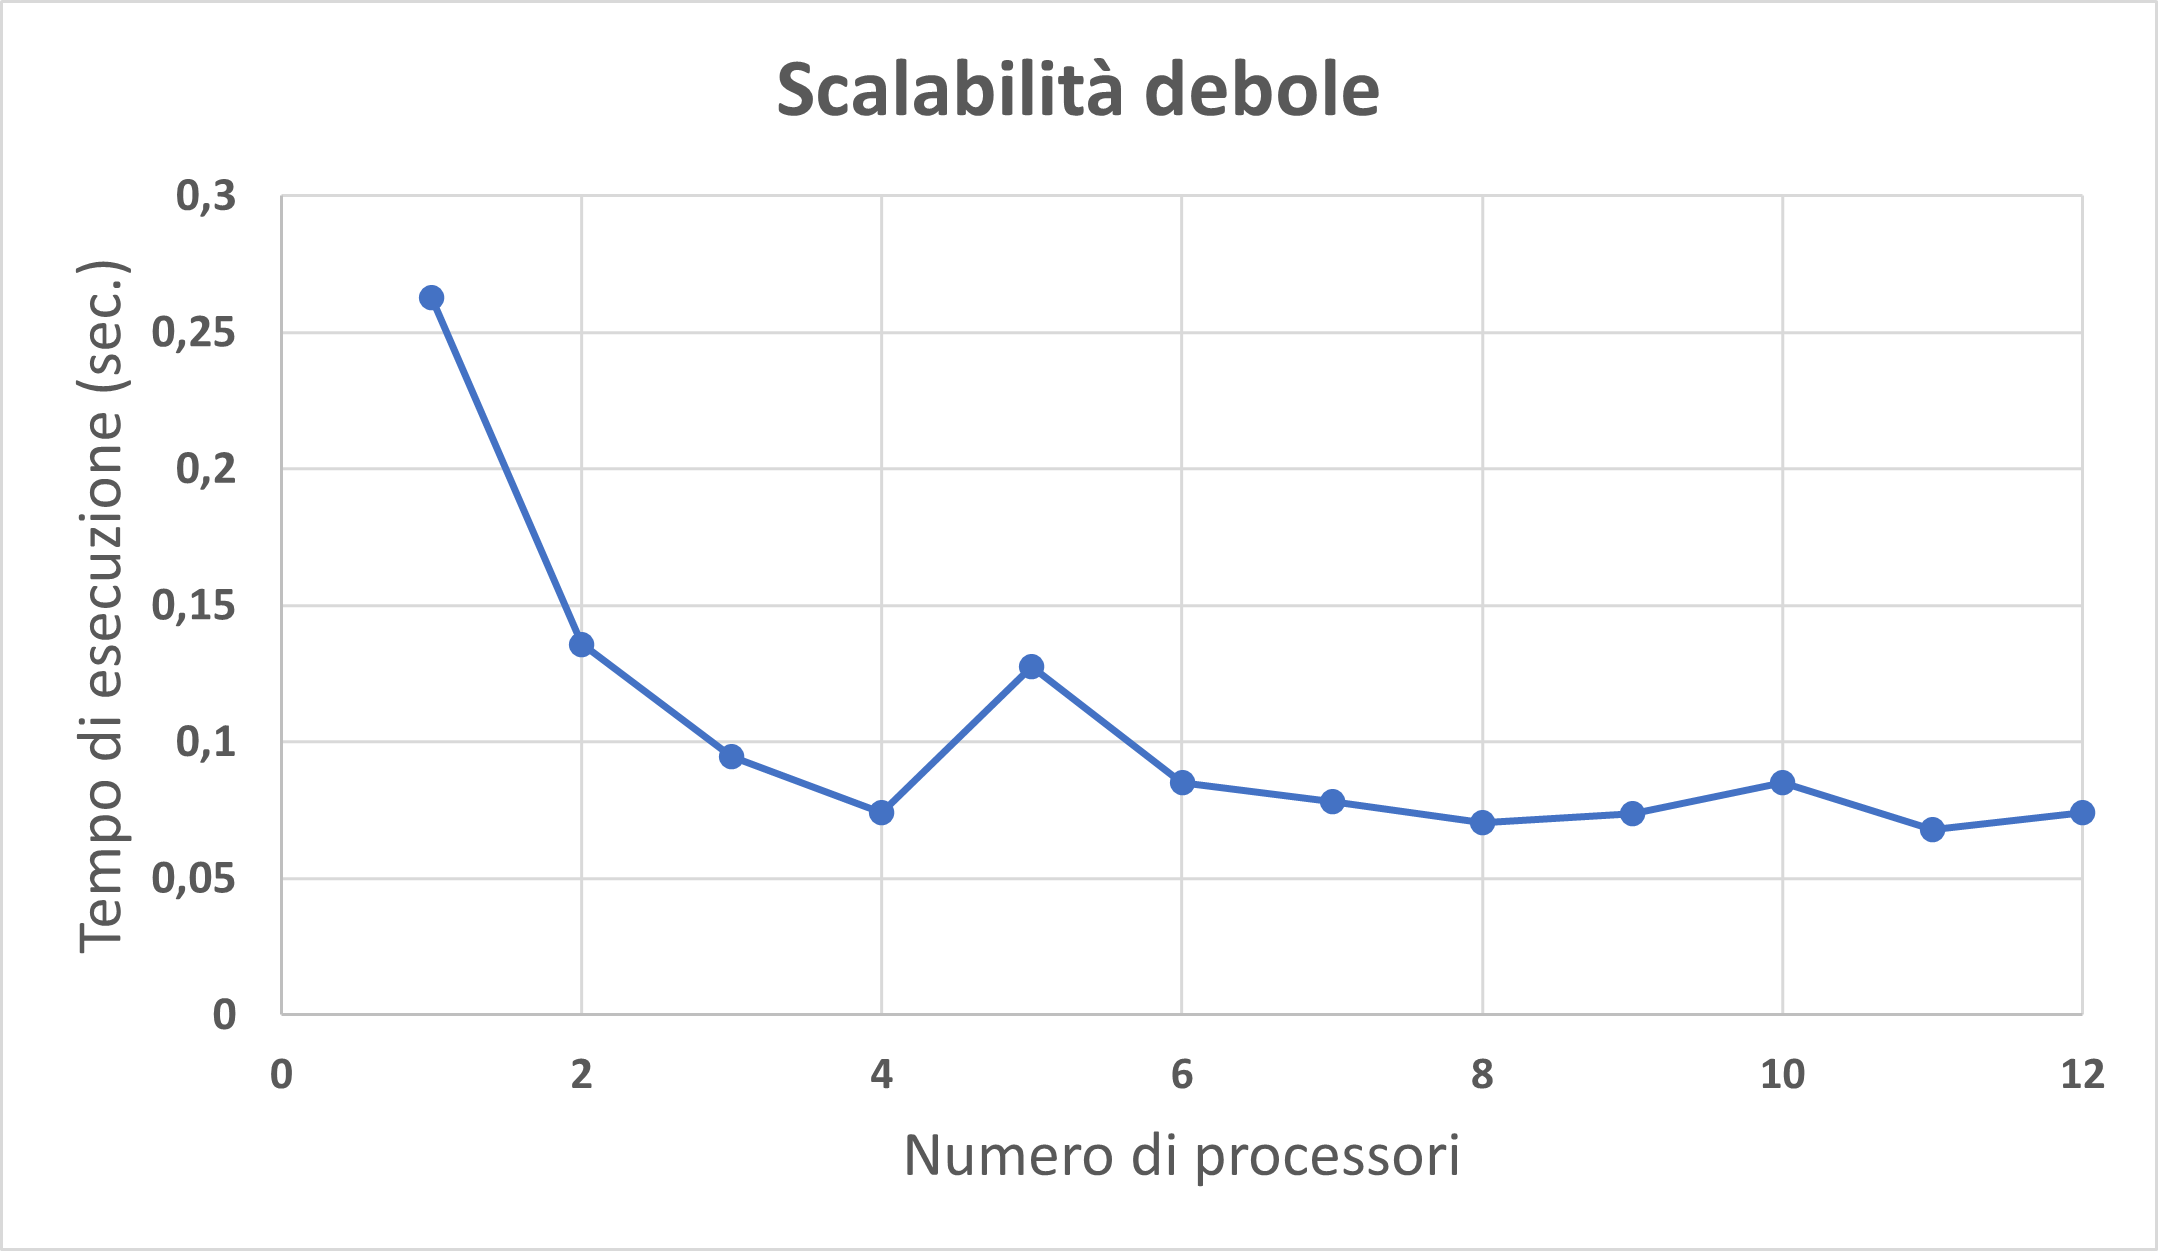
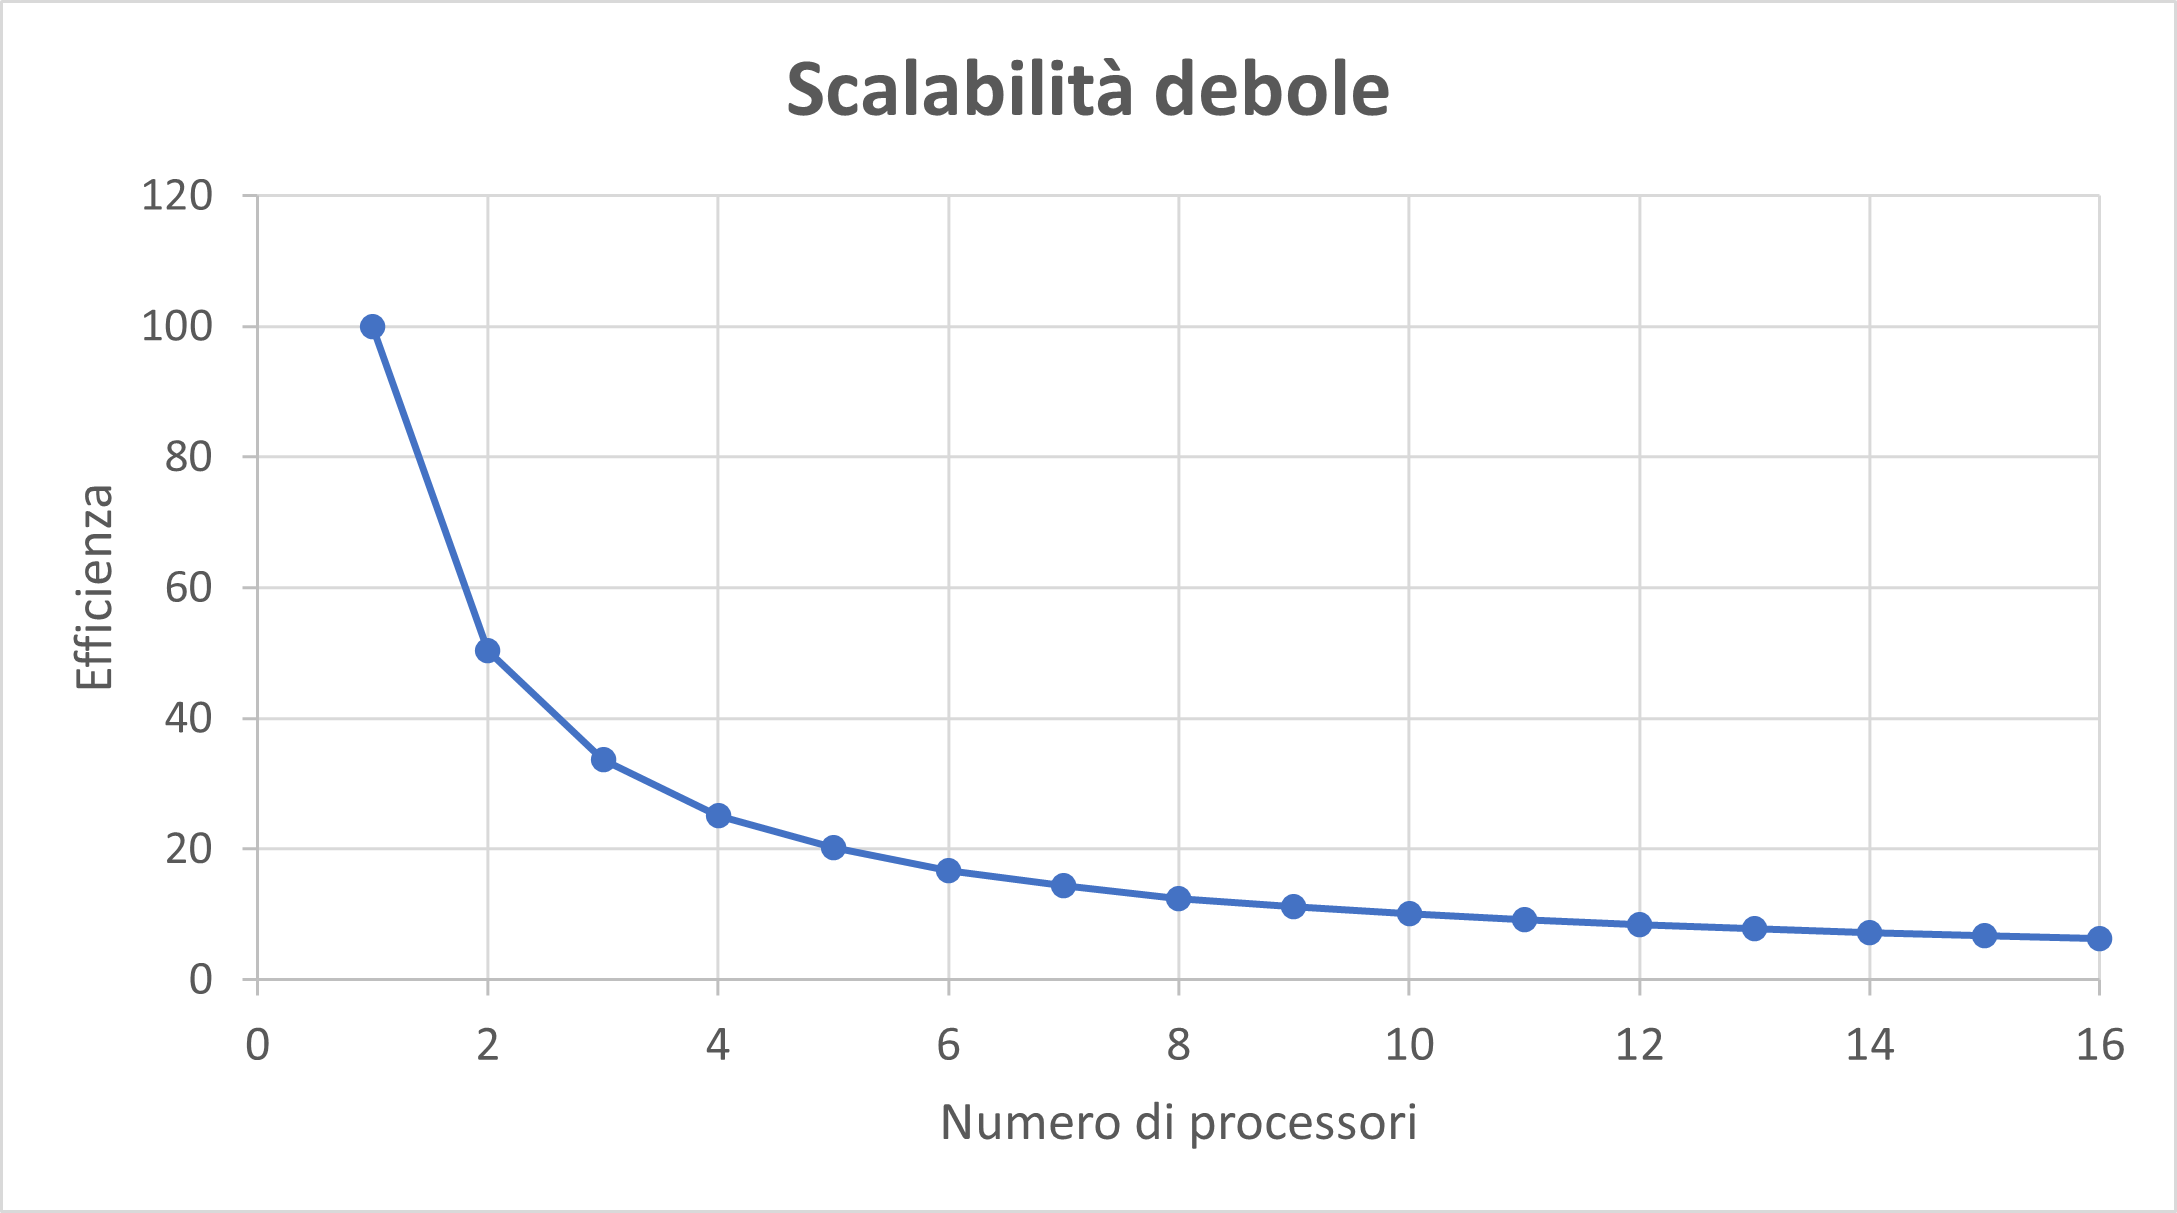
aggiunta della descrizione della scalabilità forte e debole e delle conclusioni

diff --git a/README.md b/README.md
@@ -1,20 +1,29 @@
 # Forest-fire-simulation
+## Indice
+1. [Introduzione](#introduzione)
+
+2. [Descrizione della soluzione proposta](#descrizione-della-soluzione-proposta)
+3. [Dettagli dell'implementazione](#dettagli-dellimplementazione)
+4. [Correttezza dell'algoritmo](#correttezza-dellalgoritmo)
+5. [Benchmarks](#benchmarks)
+6. [Conclusioni](#conclusioni)
+
 ## Introduzione
 Questo progetto è una possibile implementazione dell'algoritmo Forrest fire in C che utilizza Open MPI, una implementazione di MPI. Tale problema è ben descritto qui: https://en.wikipedia.org/wiki/Forest-fire_model. In breve, questa implementazione parallelizza la simulazione di un incendio boschivo, con i seguenti requisiti:
 
-1. Una cella bruciata si traforma in una cella vuota
-2. Un albero brucia se almeno uno dei suoi vicini sta bruciando
-3. Un albero si incendia con probabilità $b$ anche se nessun vicino sta bruciando
-4. In una cella vuota può nascere un albero con probabilità $p$
+1. Una cella bruciata si traforma in una cella vuota.
+2. Un albero brucia se almeno uno dei suoi vicini sta bruciando.
+3. Un albero si incendia con probabilità $b$ anche se nessun vicino sta bruciando.
+4. In una cella vuota può nascere un albero con probabilità $p$.
 
 La simulazione può terminare o quando tutta la foresta è vuota, oppure quando si raggiunge un numero di iterazioni S dell'algoritmo (dato in input dall'utente al programma).
 ## Descrizione della soluzione proposta
-La soluzione proposta prevede che l'utente dia in input la dimensione della matrice ($N$ ed $M$) e il numero di step dell'algoritmo ($S$). Il processo master ($rank 0$), inizializza la matrice riempiendo casualmente una cella con una dei seguenti valori:
-- $T$: nella cella c'è un albero
-- $E$: la cella è vuota
-- $B$: l'albero sta bruciando
+La soluzione proposta prevede che l'utente dia in input la dimensione della matrice ($N$ ed $M$) e il numero di step dell'algoritmo ($S$). Il processo master ($rank$ $0$), inizializza la matrice riempiendo casualmente una cella con una dei seguenti valori:
+- $T$: nella cella c'è un albero.
+- $E$: la cella è vuota.
+- $B$: l'albero sta bruciando.
 
-Il master node poi procede a dividere in modo equo le righe della matrice fra i processi disponibili ed ogni processo lavorerà su una porzione della matrice. Ogni processo poi comunica con i processi vicini  le righe estreme della sottomatrice ricevuta, in modo da verificare se l'albero dovrà bruciare oppure no. Se la sottomatrice ricevuta da un processo è almeno 3 righe, allora il processo potrà procedere a computare una parte della simulazione senza fare comunicazione (tranne quando andrà a considerare i bordi), questo meccanismo permette di velocizzare la simulazione, come vedremo al punto (inserire riferimento). Ogni processo poi terrà conto ad ogni iterazione delle celle vuote e le comunicherà al master node, che farà terminare la simulazione quando: il numero di celle vuote è pari al numero di celle totali della matrice oppure la simulazione terminerà al raggiungimento di $S$.
+Il master node poi procede a dividere in modo equo le righe della matrice fra i processi disponibili ed ogni processo lavorerà su una porzione della matrice. Ogni processo poi comunica con i processi vicini le righe agli estremi della sottomatrice ricevuta, in modo da verificare se l'albero dovrà bruciare oppure no. Se la sottomatrice ricevuta da un processo è almeno 3 righe, allora il processo potrà procedere a computare una parte della simulazione senza fare comunicazione (tranne quando andrà a considerare i bordi), questo meccanismo permette di velocizzare la simulazione. Ogni processo poi terrà conto ad ogni iterazione delle celle vuote e le comunicherà al master node, che farà terminare la simulazione quando il numero di celle vuote è pari al numero di celle totali della matrice. Altrimenti la simulazione termina al raggiungimento di $S$.
 
 ## Dettagli dell'implementazione
 In questa sezione saranno dettaglite le parti più significative del codice dell'implementazione.
@@ -35,28 +44,7 @@ void forest_initialization(char *forest,int num_row,int num_col){
 }
 ```
 Il seme utilizzato da rand è il tempo, allo scorrimento di ogni cella viene generato un numero compreso fra 0 e 100 e se il numero è maggiore di 70 viene inserito un albero, se è minore o uguale a 50 sarà una cella vuota altrimenti sarà un albero che sta bruciando.
-### Suddivisione delle righe
-```C
-//m: numero di righe
-//n: numero di colonne 
-//numtasks: numero di processi
 
-//Controllo se c'è resto
-    sum = 0;
-    remainder = m % numtasks;
-
-    for(int i = 0; i<numtasks; i++){
-        send_counts[i] = m / numtasks; //numero di righe che dovrà avere ogni processo
-        if(remainder > 0){
-            send_counts[i]++;  //distribuisco in maniera equa le righe se c'è resto
-            remainder--;
-        }
-        send_counts[i] *= n; //ottenuto il numero di righe, moltiplico per il numero di colonne, ottentedo la quantità di elementi che in totale avrà ogni processo
-        displ[i] = sum; //spiazzamento per scatterv
-        sum += send_counts[i];
-    }
-```
-Avendo utilizzato la scatterv per la suddivisione delle righe fra i processi, abbiamo bisogno del displacement (```displ```) e della grandezza del buffer di ricezione di ogni singolo processo (```send_counts```) che può variare in base la numero di righe che riceverà.
 ### Comunicazione asincrona dei bordi delle sottomatrici
 ```C
         if(myrank == 0){ 
@@ -139,7 +127,7 @@ void check_neighbors(char *forest,char *matrix2,int num_row,int num_col,int i,in
 ```
 Questa funzione, per la cella che stiamo considerando, va a verificare lo stato dei vicini a destra, sinistra, sopra e sotto. Se uno di questi sta bruciando, allora la cella diventerà $B$. Altrimenti se nessuno sta bruciando con probabilità ```prob_burn```, l'albero brucerà.
 ### Controllo delle righe ai bordi
-Per la computazione delle righe ai bordi vi è bisogno delle righe degli altri processi, quindi viene utilizzatta una ```MPI_Waitall```, dopodichè si può procedere a controllare la prima e l'ultima riga della sottomatrice di ogni processo. Questo viene fatto utilizzando la funzione ```check_borders``` che prende in input le righe superiore e inferiore ricevute e va ad eseguire i controlli.
+Per la computazione delle righe ai bordi vi è bisogno delle righe degli altri processi, quindi vengono utilizzate due ```MPI_Wait```, rispettivamente su ```request[0]``` e ```request[1]```, dopodichè si può procedere a controllare la prima e l'ultima riga della sottomatrice di ogni processo. Questo viene fatto utilizzando la funzione ```check_borders``` che prende in input le righe superiore e inferiore ricevute e va ad eseguire i controlli.
 ```C
 void check_borders(char *forest, char *matrix2,char *top_row,char *bottom_row,int i,int j, int num_row, int num_col,int prob_burn){
     //controllo a destra e a sinistra
@@ -180,7 +168,7 @@ void check_borders(char *forest, char *matrix2,char *top_row,char *bottom_row,in
     }
 }
 ```
-La funzione è simile a quella precedente, ed inoltre bisogna considerare anche il caso in cui il processo abbia ricevuto una sola riga, poichè in tal caso, quando leggiamo la riga 0, dobbiamo confrontare i valori nelle cella sia con la riga superiore ricevuta che con quella inferiore e non con la riga inferiore della matrice che abbiamo (in quel caso avremmo un errore perchè abbiamo una sola riga).
+La funzione è simile a quella precedente, ed inoltre bisogna considerare anche il caso in cui il processo abbia ricevuto una sola riga, poichè in tal caso, quando leggiamo la riga 0, dobbiamo confrontare i valori nelle cella sia con la riga superiore ricevuta che con quella inferiore.
 ### Terminazione della simulazione del caso la foresta sia vuota
 Per terminare la simulazione nel caso la foresta sia vuota, ogni processo incrementa un contatore di celle vuote, che azzera poi ad ogni nuova iterazione.
 ```C
@@ -215,14 +203,14 @@ Esempio per controllare la correttezza su una matrice di dimensione 50x50 con 50
  cd test_correttezza/
  ./check_correctness.sh --row 50 --column 50 --steps 40 --processors 4
  #oppure
- ./check_correctness.sh -r 50 -c 50 -s 40 -p 2
+ ./check_correctness.sh -r 50 -c 50 -s 40 -p 4
 
 ```
-L'output dell'esecuzione dei programmi viene riportato nei file ```output_sequenziale``` e ```output_parallelo```. Se i due file contengono lo stesso output, cioè significa che nelle s iterazioni, lo stato della foresta era sempre uguale, fra programma eseguito con p processori e fra il programma sequenziale. Ciò ci assicura la corretteza del programma parallelo.
+L'output dell'esecuzione dei programmi viene riportato nei file ```output_sequenziale``` e ```output_parallelo```. Se i due file contengono lo stesso output, cioè significa che nelle $S$ iterazioni, lo stato della foresta era sempre uguale, fra programma eseguito con $p$ processori e fra il programma sequenziale. Ciò ci assicura la corretteza del programma parallelo.
 
 ## Benchmarks
 Prima di andare nel dettaglio nel mostrare i dati del benchmark effettuato è opportuno fare le seguenti premesse.
-I benchmark sono stati eseguiti su un cluster di macchine virtuali create su Google Cloud. In particolare, il cluster è stato creato con 6 macchine di tipo e2-standard-4. Questo tipo di macchine hanno si 4vCPU, ma in realtà al sistema operativo solo 2vCPU vengono esposte. Di conseguenza nel test, per avere dati più realistici e sfruttare solamente i core reali disponibili della macchina, il test è stato eseguito con procesessori che variano da 1 fino a 12. Inolte, non è stato possibile andare ad usare macchine e2-standard-8 (con 8vCPU e quindi 4vCPU esposte al SO) per fare un testo con oltre 12 processori, in quanto Google Cloud pone un limite di massimo 24 core per regione (e il conteggio dei core viene fatto sulle vCPU presenti nella descrizione della macchina e non in quelle realmente utilizzabili). Dunque, per avere dei test più veritieri possibili ci si è fermati a 12 processori nel test di scalabilità. Tutti i tempi di esecuzione che saranno mostrati nel seguito, sono la media dei tempi su 10 esecuzioni consecutive della simulazione.
+I benchmark sono stati eseguiti su un cluster di macchine virtuali create su Google Cloud. In particolare, il cluster è stato creato con 4 macchine di tipo e2-standard-8. Questo tipo di macchine hanno si 8vCPU, ma in realtà al sistema operativo solo 4vCPU vengono esposte. Di conseguenza nel test, per avere dati più realistici e sfruttare solamente i core reali disponibili della macchina, il test è stato eseguito con procesessori che variano da 1 fino a 16 (senza usare oversubscribe). Tutti i tempi di esecuzione che saranno mostrati nel seguito, sono la media dei tempi su 10 esecuzioni consecutive della simulazione.
 ### Scalabilità forte
 Nel test della scalabilità forte, vengono riportati i tempi dell'esecuzione della simulazione su una matrice di dimensione $3000*3000$, eseguendo $100$ $step$ e con le seguenti probabilità:
 
@@ -231,9 +219,9 @@ Nel test della scalabilità forte, vengono riportati i tempi dell'esecuzione del
     int prob_grow = 50;  //probabilità che un albero cresca nella cella vuota
 ```
 
-![Scalabilità forte](img/Strong_scalability.png?raw=true)
+![Scalabilità forte](img/strong_scalability.png?raw=true)
 
-Nella tabella di seguito vengono riportati nel dettaglio i dati con anche il relativo speedup al crescere dei processori.
+Nella tabella di seguito vengono riportati nel dettaglio i dati con anche il relativo speedup al crescere dei processori. Nel calcolo del tempo è stato escluso il tempo impiegato dal MASTER node per inizializzare la matrice all'inizio della simulazione, tale inizializzazione prende 8,3082s (calcolato su 10 esecuzioni).
 
 | PROCESSORI |  TEMPO (sec.)| SPEEDUP |
 |------------|--------------|---------|
@@ -249,23 +237,34 @@ Nella tabella di seguito vengono riportati nel dettaglio i dati con anche il rel
 | 10         | 3,82968      | 8,1763  |
 | 11         | 3,58176      | 8,7422  |
 | 12         | 3,32661      | 9,4127  |
+| 13         | 3,14370      | 9,9604  |
+| 14         | 2,98696      | 10,483  |
+| 15         | 3,58176      | 10,997  |
+| 16         | 3,32661      | 11,708  |
 
 ### Scalabilità debole
-Nel test per la scalabilità debole invece, viene preso il tempo dell'esecuzione aumentado il numero delle righe e il numero di processori su cui viene eseguita la simulazione. In particolare, il numero di colonne è fissato a 500, mentre le righe sono np*150 (np=numero dei processori) e con un nemero di step dell'algoritmo pari a 100.
+Nel test per la scalabilità debole invece, viene preso il tempo dell'esecuzione aumentado il numero delle righe e il numero di processori su cui viene eseguita la simulazione. In particolare, il numero di colonne è fissato a 500, mentre le righe sono np*200 (np=numero dei processori) e con un nemero di step dell'algoritmo pari a 100.
 
 ![Scalabilità forte](img/weak_scalability.png?raw=true)
 
-| PROCESSORI |  TEMPO (sec.) | EFFICIENZA |
-|------------|---------------|------------|
-| 1          | 0,2626        | 1.00000    |
-| 2          | 0,1358        | 1,9595     |
-| 3          | 0,0947        | 2,8738     |
-| 4          | 0,0741        | 3,6615     |
-| 5          | 0,1276        | 4,5646     |
-| 6          | 0,0849        | 5,3544     |
-| 7          | 0,0781        | 6,1364     |
-| 8          | 0,0702        | 6,7260     |
-| 9          | 0,0736        | 7,4667     |
-| 10         | 0,0850        | 8,1763     |
-| 11         | 0,0680        | 8,7422     |
-| 12         | 0,0739        | 9,4127     |
+| PROCESSORI |  TEMPO (sec.) | EFFICIENZA  |
+|------------|---------------|-------------|
+| 1          | 0,0149        | 100         |
+| 2          | 0,0296        | 50,3378     |
+| 3          | 0,0443        | 33,6343     |
+| 4          | 0,0595        | 25,0420     |
+| 5          | 0,0738        | 10,1897     |
+| 6          | 0,0895        | 16,6480     |
+| 7          | 0,1037        | 14,3683     |
+| 8          | 0,1197        | 12,4477     |
+| 9          | 0,1372        | 11,2283     |
+| 10         | 0,1485        | 10,0275     |
+| 11         | 0,1623        | 9,18052     |
+| 12         | 0,1774        | 8,39909     |
+| 13         | 0,1913        | 7,78881     |
+| 14         | 0,2059        | 7,23652     |
+| 15         | 0,2216        | 6,72382     |
+| 16         | 0,2366        | 6,29754     |
+
+## Conclusioni
+Come si può evincere dal test della scalabilità debole, l'algoritmo sicuramente riesce a trarre benefici dall'esecuzione in parallelo della simulazione. Da notare però che la diminuzione del tempo è forte soprattuto fino ad arrivare a 8 processori, dopo la diminuzione del tempo tende sempre di più ad appiattirsi. Questo è sicuramente dovuto al fatto che aumentando i processori, va ad aumentare la comunicazione, creando overhead, infatti aumentano sempre di più i processori che devono eseguire l'operazione di MPI_Reduce e di MPI_Bcast (che sono comunque bloccanti a differenza delle send e receive utilizzate) impattando negativamente sul tempo di esecuzione. Quindi per l'algoritmo in questione, un ottimo compromesso fra tempi e costo da investire in processori, vale sicuramente la pena fermarsi ad 8 processori. Anche il test della scalabilità debole conferma tale ipotesi, infatti come si può vedere dalla tabella, quando si aumentano i processori da 8 in su, il tempo inizia ad aumentare significativamente, mentre fino ad 8 processori l'aumento risulta accettabile.
